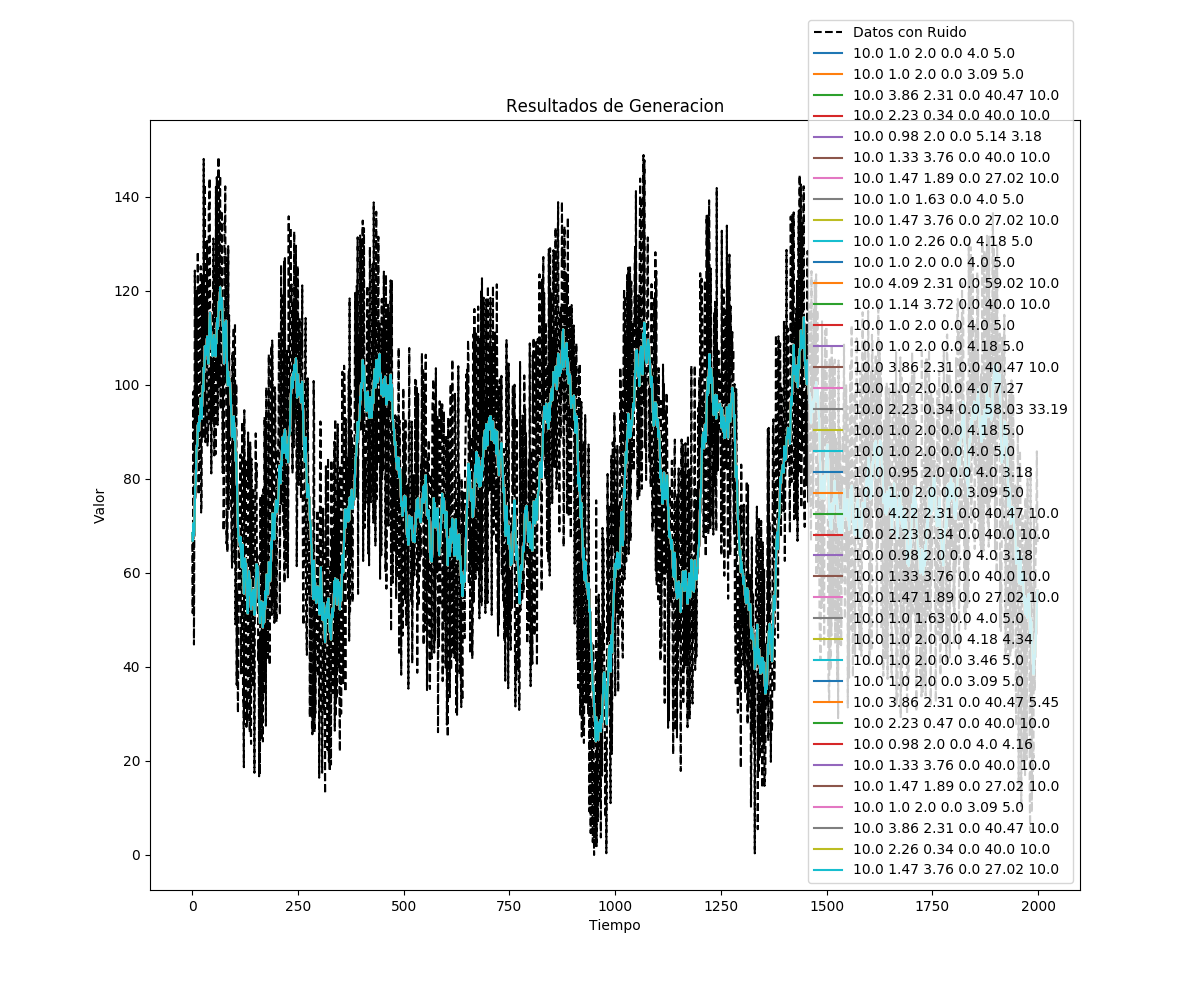
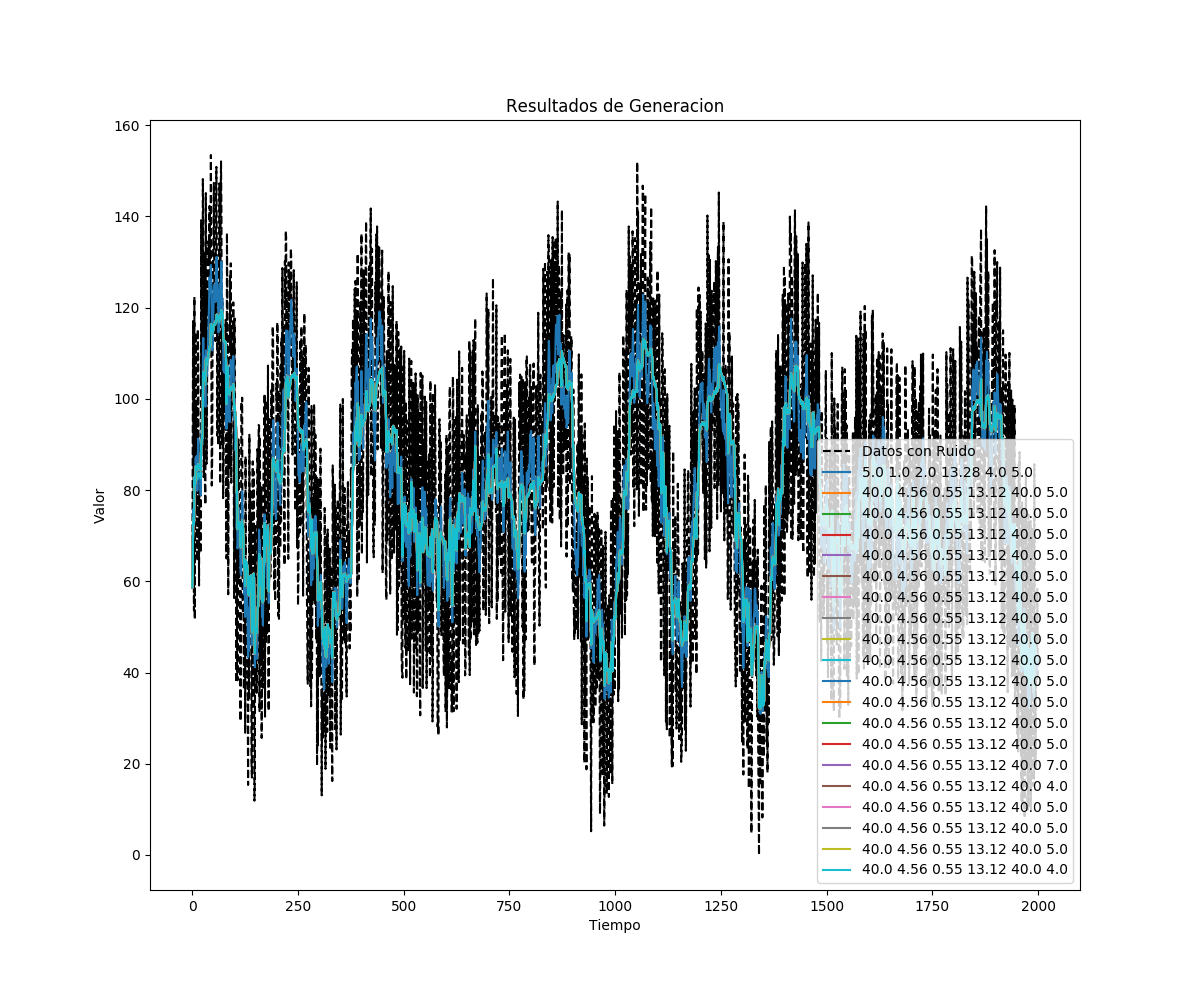
Envio profes
Asi es como hice la corrida con los datos que les envie a los profes

diff --git a/TP/main.py b/TP/main.py
@@ -19,8 +19,8 @@ from fun_jose import run_test, plot_filtrados, load_data, gen_signal, add_noise,
 PUNTUACION_MAXIMA = 20
 
 # Parametros del GA ----------------------------------------------------------------------------------------------------------------------
-nGen = 10                      #Generaciones a correr
-pDim = 10                      #Tamaño de la poblacion
+nGen = 101                      #Generaciones a correr
+pDim = 20                      #Tamaño de la poblacion
 pMuta = 5                       #Probabilidad de que un individuo mute expresade en %
 dMuta = 50                      #delta de Muta, osea cuanto puede variar en la mutacion expresado en %
 pCruza=10                        #probabilidad de cruza porcentual
@@ -32,15 +32,15 @@ poblacion_actual = []           #Array con la poblacion actual
 poblacion_nueva = []            #Array donde se van volcando los individuos de la proxima poblacion
 salida_filtro = []              #Array de las salidas del filtro con cada set de parametros
 evol_error = []  
-error_max=np.zeros(pDim)               #Evolucion del error en funcion de las generaciones
-error_min=np.zeros(pDim)
+error_max=np.zeros(nGen)               #Evolucion del error en funcion de las generaciones
+error_min=np.zeros(nGen)
 
 # Parametros del DEWMA -------------------------------------------------------------------------------------------------------------------
-lim_gamma = [0.5, 5]
-lim_alfa = [0.5, 5]
+lim_gamma = [0.75, 5]
+lim_alfa = [0.75, 5]
 lim_sigma = [1, 10]             #Actualmente no se utiliza y el filtro calcula su sigma propio
 lim_Nmax = [40, 40]             #Hay que revisar estos limites porque el filtro DEWMA ya hace una estimacion de N usando estos valores
-lim_Nmin = [10, 10]              #Quiza estos parametros hay que incluirlos en los limites de arriba, para pensar
+lim_Nmin = [5, 5]              #Quiza estos parametros hay que incluirlos en los limites de arriba, para pensar
 lim_N = [lim_Nmin[0], lim_Nmax[1]]
 
 
@@ -159,11 +159,14 @@ for gen in range(nGen):
         if error_actual < error_minimo:
             error_minimo = error_actual
             ind_minimo_err = ind
-            error_min[ind-1]=error_actual
+            
         if error_actual > error_maximo:
             error_maximo = error_actual
             ind_maximo_err = ind
-            error_max[ind-1]=error_actual
+            
+
+    error_min[gen] = error_minimo
+    error_max[gen] = error_maximo
 
     #Calculo el error promedio de la generacion
     error_promedio_gen = error_promedio_gen / len(poblacion_actual)
@@ -175,7 +178,7 @@ for gen in range(nGen):
     #Asignacion de puntajes
     score_pob(error_punt, error_maximo)
 
-    print(poblacion_actual)
+    #print(poblacion_actual)
     #Seleccion de individuos
     poblacion_nueva = select_ind(poblacion_actual, error_punt)
     
@@ -185,73 +188,43 @@ for gen in range(nGen):
     #mutacion
     poblacion_actual = mutac_ind(poblacion_nueva,pMuta,dMuta)
 
-    print(poblacion_actual)
+    #print(poblacion_actual)
 
 #Termino y muestro resultados
-plot_error(evol_error)
+#plot_error(evol_error)
 
-print("Los mejores parametros son " + str())
-
-
-plt.figure(figsize=(9, 3))
-
-plt.subplot(131)
-plt.plot(np.subtract(datos_orig, 80))
-plt.plot(datos_puros)
-
-plt.subplot(132)
-plt.plot(evol_error,legend='evol')
-plt.plot(error_max,legend='max')
-plt.plot(error_min,legend='min')
+#print("Los mejores parametros son " + str(poblacion_actual[0,:]))
 
 
-plt.subplot(133)
-plt.plot(evol_error)
-plt.suptitle('Categorical Plotting')
-plt.show()
+plt.figure(figsize=(14, 10))
+
+plt.subplot(311)
+plt.plot(datos_orig-80, label='Señal con ruido')
+plt.plot(datos_puros-40, label='Señal sin ruido')
+plt.ylabel('Valor')
+plt.xlabel('Tiempo')
+plt.grid(True)
+plt.legend(loc=4)
+
+plt.subplot(312)
+plt.plot(evol_error, label='Medio generacional')
+plt.plot(error_max, label='Maximo generacional')
+plt.plot(error_min, label='Minimo generacional')
+plt.ylabel('Valor')
+plt.xlabel('Tiempo')
+plt.grid(True)
+plt.legend(loc=1)
 
 
-
-
-
-
-
-
-
-
-
-
-
-
-
-
-
-
-
-
-
-
-
-
-
-
-
-
-
-
-
-
-
-
-
-
-
-
-
-
-
-
-
-
+plt.subplot(313)
+plt.plot(evol_error, label='Medio generacional')
+plt.plot(error_min, label='Error minimo por generacion')
+plt.suptitle('Evolucion del error generacional')
+plt.ylabel('Valor')
+plt.xlabel('Tiempo')
+plt.grid(True)
+plt.legend(loc=1)
+plt.savefig("Evolucion/Error.png")
+plt.close()
 
 

diff --git a/TP/fun_matias.py b/TP/fun_matias.py
@@ -143,7 +143,7 @@ def mutac_ind(oPob,pMuta,dMuta):
     #print ('param',len(oPob[0,:]))
     max_muta=(dMuta/100)+1
     min_muta=1-(dMuta/100)
-    print('MAx muta',max_muta, 'y Min Muta', min_muta)
+    print('Max muta',max_muta, 'y Min Muta', min_muta)
     for total in range(len(oPob[:,0])):
         for param in range(len(oPob[0,:])):
             if pMuta > (random.randrange(0, 1000, 1))/10:
@@ -151,7 +151,7 @@ def mutac_ind(oPob,pMuta,dMuta):
                 
                 if param == 0 or param==4 or param==5:
                     aux[total,param]= round(random.uniform(aux[total,param]*min_muta,aux[total,param]*max_muta))
-                    print('redondo redonde ', aux[total,param])
+                    #print('redondo redonde ', aux[total,param])
                 else:
                     aux[total,param]= random.uniform(aux[total,param]*min_muta,aux[total,param]*max_muta)
                     

diff --git a/TP/fun_jose.py b/TP/fun_jose.py
@@ -44,8 +44,8 @@ def gen_signal(amp, per, fases, muestras):
         st[j] = sum(s[:,j])
 
     # Le monto una continua para ver si eso es lo que rompe el sigma
-    #if st.min() < 0:
-    #    st = st - st.min()
+    if st.min() < 0:
+        st = st - st.min()
 
     #plt.plot(s.transpose(), label = "original")
     #plt.plot(st, label = "suma")
@@ -80,7 +80,7 @@ def FiltroDEWMA(param, data):
     alfa = param[2]
     sigma = param[3]
     Nmax = 40
-    Nmin = 10
+    Nmin = 5
 
     variable = data
 
